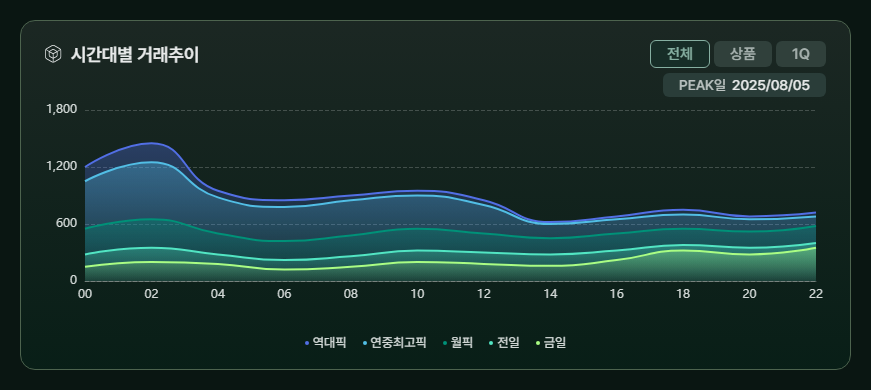
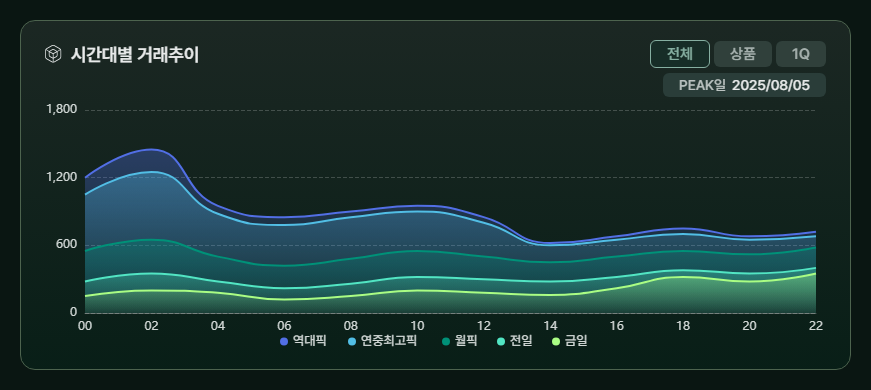
refactor: TimeTrendChart legend를 ECharts 내장 기능으로 변경
- HTML 하드코딩 legend 제거
- ECharts legend 활성화 (클릭 시 시리즈 토글 지원)
- itemStyle.color로 legend 아이콘 색상 매칭
- 불필요한 CSS 스타일 제거

🤖 Generated with [Claude Code](https://claude.ai/claude-code)

Changed region(s): [[0.062, 0.3385, 0.961, 0.8923], [0.062, 0.5538, 0.217, 0.5846]]

diff --git a/Projects/HANA_BANK_HIT_Dev/page/components/TimeTrendChart/preview.html b/Projects/HANA_BANK_HIT_Dev/page/components/TimeTrendChart/preview.html
@@ -165,34 +165,6 @@
                 width: 100%;
                 min-height: 200px;
             }
-
-            & .legend {
-                display: flex;
-                align-items: center;
-                gap: 16px;
-                padding: 5px 13px;
-                border-radius: 50px;
-            }
-
-            & .legend-item {
-                display: flex;
-                align-items: center;
-                gap: 4px;
-            }
-
-            & .legend-dot {
-                width: 4px;
-                height: 4px;
-                border-radius: 50%;
-                flex-shrink: 0;
-            }
-
-            & .legend-text {
-                font-size: 13px;
-                font-weight: 500;
-                color: #d2d8d6;
-                white-space: nowrap;
-            }
         }
     </style>
 </head>
@@ -229,29 +201,6 @@
                     <div class="chart-area" id="echarts"></div>
                 </div>
 
-                <!-- Legend -->
-                <div class="legend">
-                    <div class="legend-item">
-                        <div class="legend-dot" style="background: #526FE5;"></div>
-                        <span class="legend-text">역대픽</span>
-                    </div>
-                    <div class="legend-item">
-                        <div class="legend-dot" style="background: #52BEE5;"></div>
-                        <span class="legend-text">연중최고픽</span>
-                    </div>
-                    <div class="legend-item">
-                        <div class="legend-dot" style="background: #009178;"></div>
-                        <span class="legend-text">월픽</span>
-                    </div>
-                    <div class="legend-item">
-                        <div class="legend-dot" style="background: #52E5C3;"></div>
-                        <span class="legend-text">전일</span>
-                    </div>
-                    <div class="legend-item">
-                        <div class="legend-dot" style="background: #AAFD84;"></div>
-                        <span class="legend-text">금일</span>
-                    </div>
-                </div>
             </div>
         </div>
     </div>
@@ -291,6 +240,7 @@
                 smooth: true,
                 symbol: 'none',
                 data: data,
+                itemStyle: { color: color },
                 lineStyle: { color: color, width: 2 },
                 areaStyle: {
                     color: {
@@ -316,8 +266,21 @@
                     borderColor: 'transparent',
                     textStyle: { color: '#fff', fontSize: 14 }
                 },
-                legend: { show: false },
-                grid: { left: 40, right: 10, top: 10, bottom: 30, containLabel: false },
+                legend: {
+                    show: true,
+                    bottom: 0,
+                    itemWidth: 8,
+                    itemHeight: 8,
+                    itemGap: 16,
+                    icon: 'circle',
+                    textStyle: {
+                        color: '#d2d8d6',
+                        fontSize: 13,
+                        fontWeight: 500,
+                        fontFamily: 'Pretendard, sans-serif'
+                    }
+                },
+                grid: { left: 40, right: 10, top: 10, bottom: 40, containLabel: false },
                 xAxis: {
                     type: 'category',
                     boundaryGap: false,

diff --git a/Projects/HANA_BANK_HIT_Dev/page/components/TimeTrendChart/views/component.html b/Projects/HANA_BANK_HIT_Dev/page/components/TimeTrendChart/views/component.html
@@ -23,32 +23,8 @@
                 </div>
             </div>
 
-            <!-- ECharts Container -->
+            <!-- ECharts Container (includes legend) -->
             <div class="chart-area" id="echarts"></div>
-        </div>
-
-        <!-- Legend -->
-        <div class="legend">
-            <div class="legend-item">
-                <div class="legend-dot" style="background: #526FE5;"></div>
-                <span class="legend-text">역대픽</span>
-            </div>
-            <div class="legend-item">
-                <div class="legend-dot" style="background: #52BEE5;"></div>
-                <span class="legend-text">연중최고픽</span>
-            </div>
-            <div class="legend-item">
-                <div class="legend-dot" style="background: #009178;"></div>
-                <span class="legend-text">월픽</span>
-            </div>
-            <div class="legend-item">
-                <div class="legend-dot" style="background: #52E5C3;"></div>
-                <span class="legend-text">전일</span>
-            </div>
-            <div class="legend-item">
-                <div class="legend-dot" style="background: #AAFD84;"></div>
-                <span class="legend-text">금일</span>
-            </div>
         </div>
     </div>
 </div>

diff --git a/Projects/HANA_BANK_HIT_Dev/page/components/TimeTrendChart/scripts/register.js b/Projects/HANA_BANK_HIT_Dev/page/components/TimeTrendChart/scripts/register.js
@@ -110,13 +110,24 @@ function renderChart(response) {
             }
         },
         legend: {
-            show: false
+            show: true,
+            bottom: 0,
+            itemWidth: 8,
+            itemHeight: 8,
+            itemGap: 16,
+            icon: 'circle',
+            textStyle: {
+                color: '#d2d8d6',
+                fontSize: 13,
+                fontWeight: 500,
+                fontFamily: 'Pretendard, sans-serif'
+            }
         },
         grid: {
             left: 40,
             right: 10,
             top: 10,
-            bottom: 30,
+            bottom: 40,
             containLabel: false
         },
         xAxis: {
@@ -187,6 +198,9 @@ function createAreaSeries(name, data, color) {
         smooth: true,
         symbol: 'none',
         data: data,
+        itemStyle: {
+            color: color
+        },
         lineStyle: {
             color: color,
             width: 2

diff --git a/Projects/HANA_BANK_HIT_Dev/page/components/TimeTrendChart/styles/component.css b/Projects/HANA_BANK_HIT_Dev/page/components/TimeTrendChart/styles/component.css
@@ -142,39 +142,10 @@
         white-space: nowrap;
     }
 
-    /* Chart Area - ECharts Container */
+    /* Chart Area - ECharts Container (includes legend) */
     & .chart-area {
         flex: 1;
         width: 100%;
         min-height: 200px;
-    }
-
-    /* Legend */
-    & .legend {
-        display: flex;
-        align-items: center;
-        gap: 16px;
-        padding: 5px 13px;
-        border-radius: 50px;
-    }
-
-    & .legend-item {
-        display: flex;
-        align-items: center;
-        gap: 4px;
-    }
-
-    & .legend-dot {
-        width: 4px;
-        height: 4px;
-        border-radius: 50%;
-        flex-shrink: 0;
-    }
-
-    & .legend-text {
-        font-size: 13px;
-        font-weight: 500;
-        color: #d2d8d6;
-        white-space: nowrap;
     }
 }
